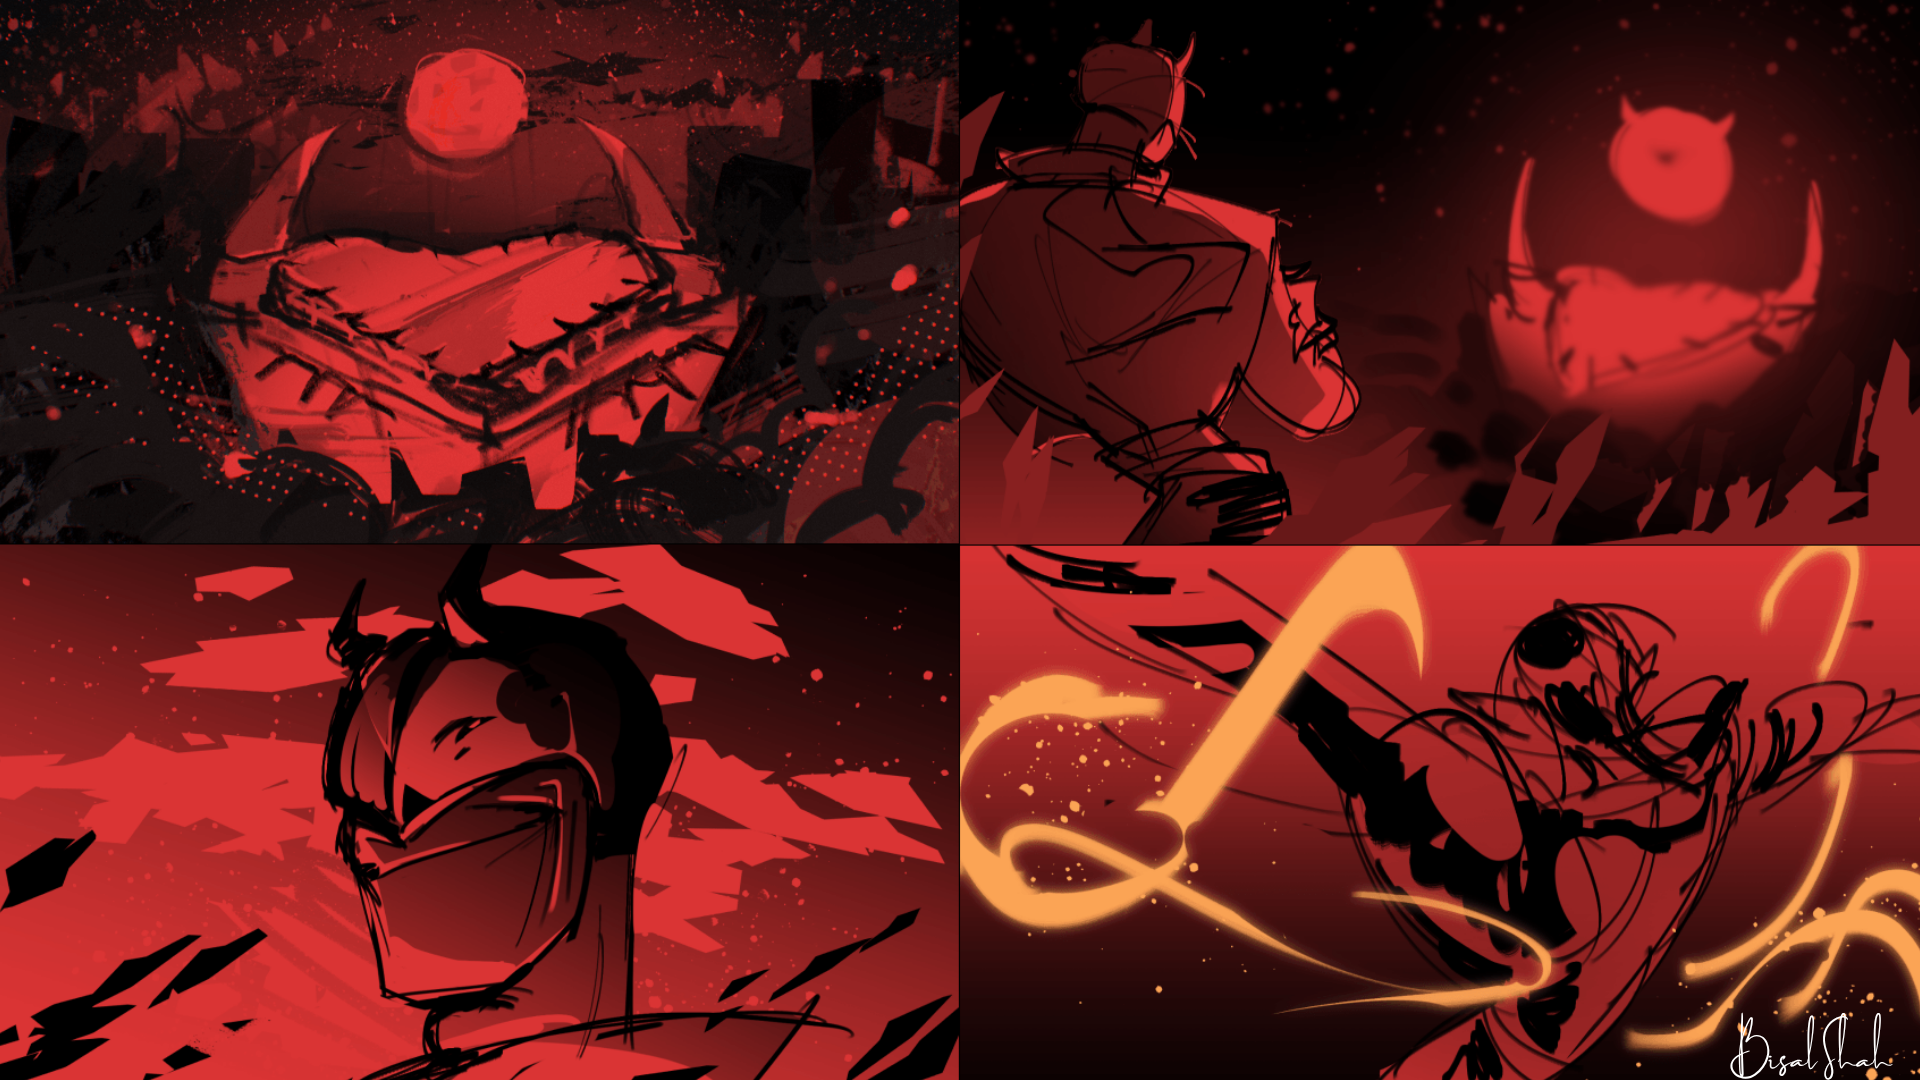
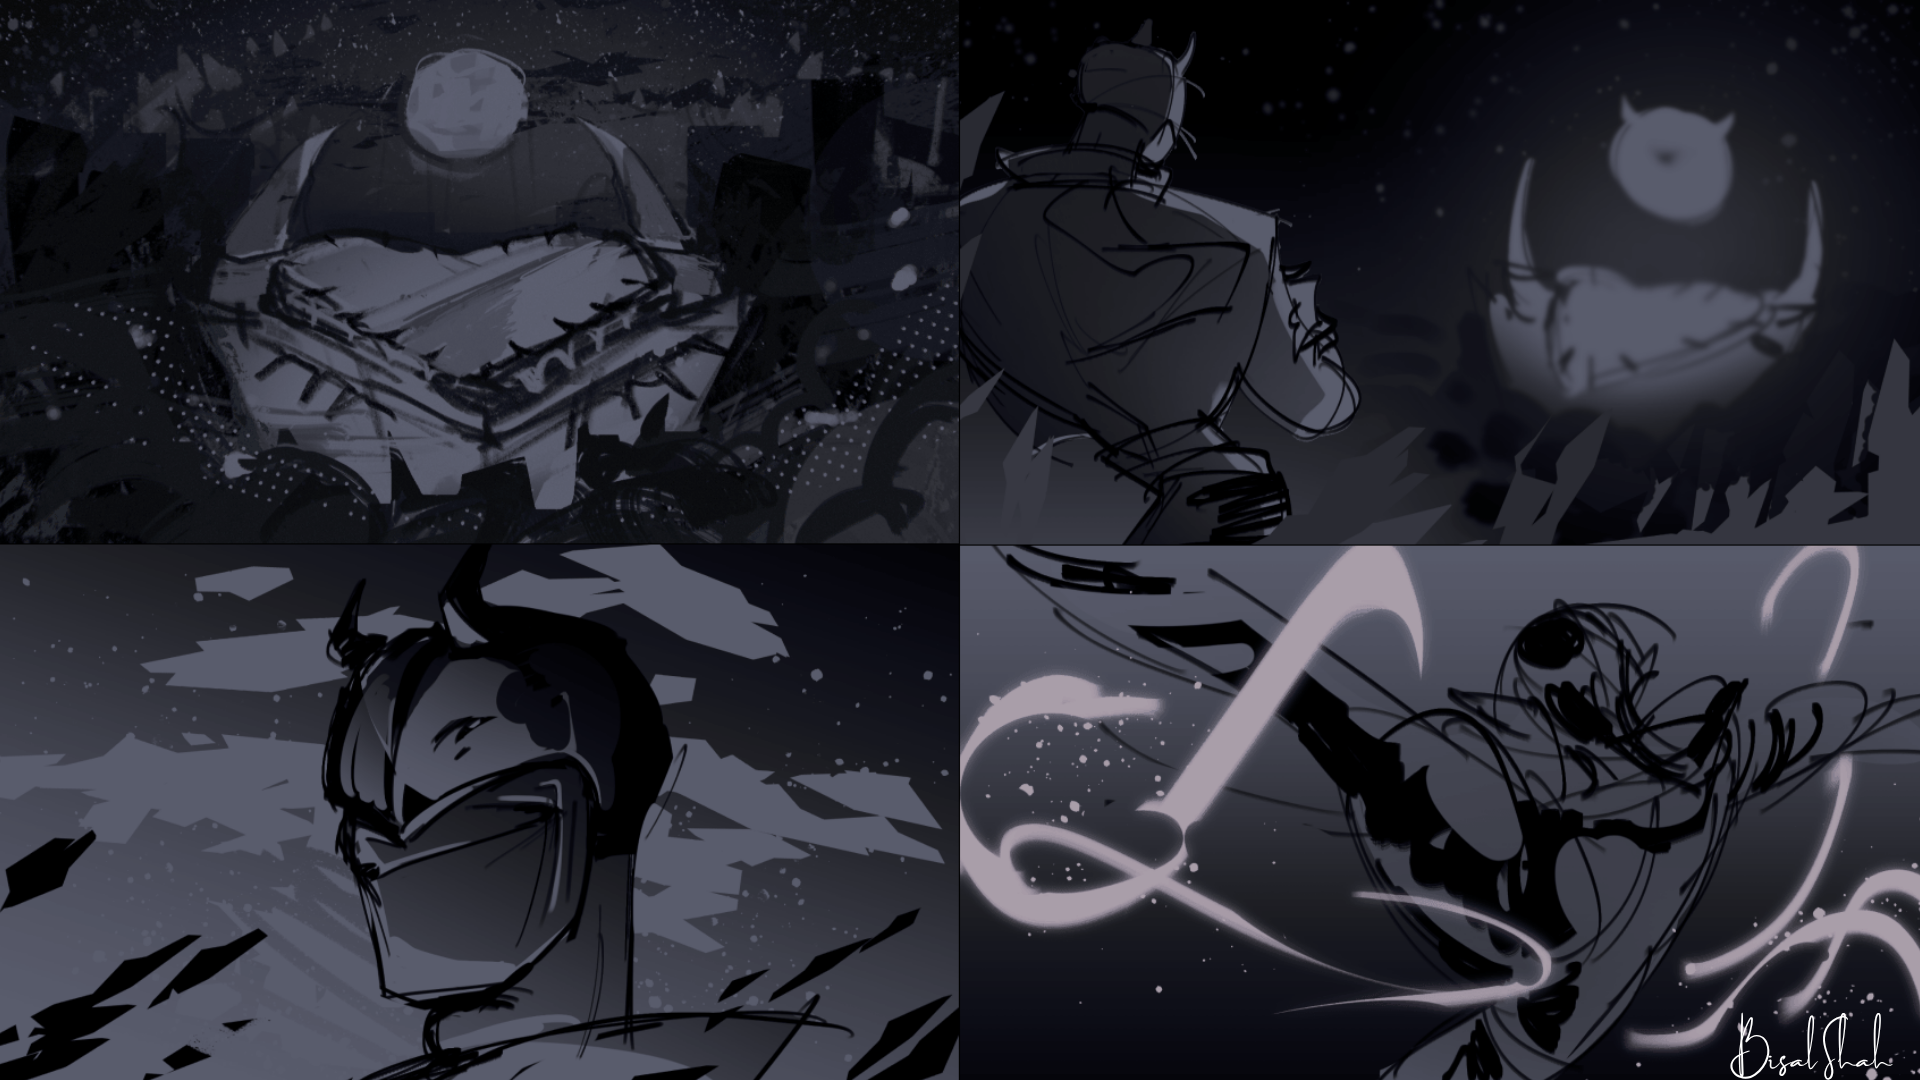
a

diff --git a/_pages/devlogs.md b/_pages/devlogs.md
@@ -17,34 +17,12 @@ My goal making devlogs is to inspire and to show how I approach game development
 [<i class="fab fa-fw fa-youtube icon-pad-right" aria-hidden="true"></i> View channel](https://www.youtube.com/@bisalshah5070)
 
 
-
+## <------This Page Under Deplopment-------->
 
 
 ## Procedural Tunnel Tarien System
 <small>The main idea of this system is that the TunnelGenerator dynamically creates a procedural tunnel mesh with smooth bends, wave-based deformations, and seamless edges to make the tunnel look continuous and natural during gameplay.</small>
 <small><br>
-
-<b>Core Concept</b></small><br>
-<small>The system is divided into two main scripts:</small> <br>                         
-<small><b>TunnelGenerator</b></small><br>
-<small>The TunnelGenerator script is responsible for creating the tunnel mesh procedurally. It generates vertices, triangles, UVs, and mesh colliders dynamically. The tunnel includes:</small>
-- <small>Smooth bends</small>
-- <small>Wave deformations</small>
-- <small>Dynamic radius variation</small>
-- <small>Seamless tunnel edges</small>
-<small>This creates a more realistic and visually interesting environment.</small>
-
-<b>TunnelManager</b>
-
-The TunnelManager controls the endless tunnel behavior. It:
-
-- Spawns multiple tunnel sections
-- Moves tunnels continuously
-- Recycles old tunnel segments
-- Regenerates tunnel meshes infinitely
-
-This helps create the illusion of an endless world while improving performance by reusing objects instead of constantly creating new ones.
-
 
 ## Companion AI System
 

diff --git a/_pages/cv.md b/_pages/cv.md
@@ -111,13 +111,14 @@ Skills
 ### Other
 - Video editing Filmora (plus script writing & voiceover)
 - Photo editing in Photoshop and Lightroom
-
 <br>
-Also check out my wildlife photography on Instagram! <a href="https://www.instagram.com/"><i class="fab fa-fw fa-instagram icon-pad-right" aria-hidden="true"></i>Instagram</a> <br>
+
+
+### Also check out my wildlife photography on Instagram! <a href="https://www.instagram.com/"><i class="fab fa-fw fa-instagram icon-pad-right" aria-hidden="true"></i>Instagram</a> <br>
 <i><small>Beyond game development, I have a strong passion for wildlife photography. Growing up in <b>Arunachal Pradesh</b>, surrounded by the forests and mountains of Northeast India, developed my appreciation for nature and wildlife from an early age. Whenever I enjoy exploring the diverse landscapes of Northeast India, traveling through Arunachal Pradesh, Assam, Meghalaya, Nagaland, and Sikkim in search of unique wildlife, breathtaking scenery, and unforgettable moments in nature, I enjoy capturing the unique animals, birds, and landscapes that make this part of the world so diverse and beautiful.</small></i><br>
 <div class="author__avatar__cv">
     <img src="/images/photography1.png" alt="Thijmen Schoonbeek">----
     <img src="/images/photography2.png" alt="Thijmen Schoonbeek">----
-    <img src="/images/photography0.png" alt="Thijmen Schoonbeek">----
+    <img src="/images/photography0.png" alt="Thijmen Schoonbeek">
 </div>
 

diff --git a/_pages/assets.md b/_pages/assets.md
@@ -28,8 +28,7 @@ Explore some of my Game Design Documents (GDDs), 3D models, asset previews, 2D-A
 <div class="video-container">
     <div class="video"><iframe src="https://sketchfab.com/models/fd80ffc16ea246aeb886f084842172a2/embed" frameborder="0" allowfullscreen></iframe></div>
     <div class="video"><iframe src="https://sketchfab.com/models/702cb2040a66441db80879d8f126a741/embed" frameborder="0" allowfullscreen></iframe></div>
-    <div class="video"><iframe src="https://sketchfab.com/models/c58ef1dd874947558180ff4495a9ce0e/embed" frameborder="0" allowfullscreen></iframe></div>
-    <div class="video"><iframe src="https://sketchfab.com/models/58c01bbd257f46a7b371076a3dc5096f/embed" frameborder="0" allowfullscreen></iframe></div>
+
 
 </div>
 

diff --git a/_portfolio/7_2d_art.md b/_portfolio/7_2d_art.md
@@ -19,7 +19,7 @@ Zt-lee is the team's forntline heavy hitter. her Ai arms react instantly helping
 
 ## BatMan
 Some seriously intense, high-contrast storyboard frames showing off a heavily armored, horned take on Batman. Love how the deep crimson tones and sharp sketches make the whole sequence feel incredibly dark and action-packed.
-<img src="/images/2D-art/Batman.png" width="932" height="472" alt="walter story images">
+<img src="/images/2D-art/batman.png" width="932" height="472" alt="walter story images">
 <br>
 
 <!-- ## Character icons
